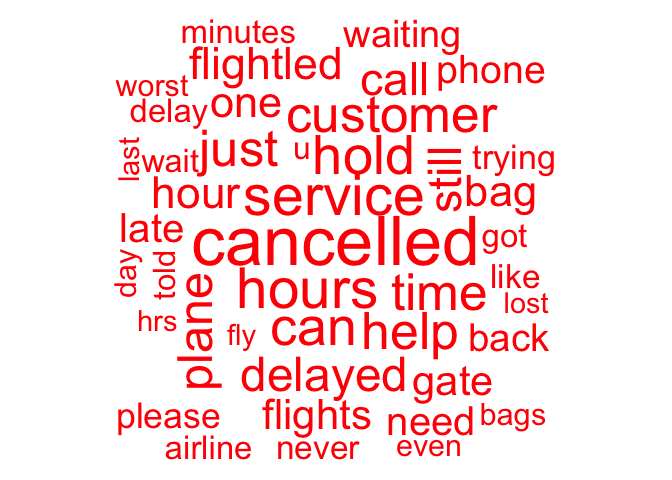
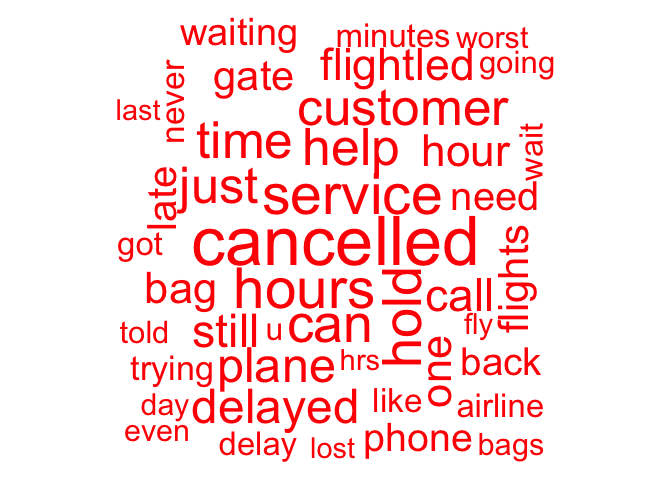
finished tweet classification report

Changed region(s): [[0.1562, 0.0312, 0.8438, 0.9688]]

diff --git a/Lasso_Logit_Tweet_Classifier/README.md b/Lasso_Logit_Tweet_Classifier/README.md
@@ -148,22 +148,8 @@ textplot_wordcloud(pos_tweets,
 ![](README_files/figure-gfm/unnamed-chunk-1-1.png)<!-- -->
 
 ``` r
-pos_tweets
-```
-
-    ## Document-feature matrix of: 2,363 documents, 2,423 features (99.77% sparse) and 3 docvars.
-    ##         features
-    ## docs     error w preferred status able reach agent via phone travel
-    ##   text5      0 0         0      0    0     0     0   0     0      0
-    ##   text8      0 0         0      0    0     0     0   0     0      0
-    ##   text17     0 0         0      0    0     0     0   0     0      0
-    ##   text18     0 0         0      0    0     0     0   0     0      0
-    ##   text19     0 0         0      0    0     0     0   0     0      0
-    ##   text26     0 0         0      0    0     0     0   0     0      0
-    ## [ reached max_ndoc ... 2,357 more documents, reached max_nfeat ... 2,413 more features ]
-
-``` r
 neg_tweets <- dfm_tweets[dfm_tweets$sentiment == "1",]
+
 textplot_wordcloud(neg_tweets,
                    min_size = 0.5,
                    max_size=6,
@@ -172,46 +158,278 @@ textplot_wordcloud(neg_tweets,
                    max_words=50)
 ```
 
-![](README_files/figure-gfm/unnamed-chunk-1-2.png)<!-- -->
-
-``` r
-neg_tweets
-```
-
-    ## Document-feature matrix of: 9,178 documents, 2,423 features (99.68% sparse) and 3 docvars.
-    ##        features
-    ## docs       error        w preferred   status     able    reach    agent
-    ##   text1 2.399486 1.729805  2.806971 2.175753 2.071017 2.399486 1.669546
-    ##   text2 0        0         0        0        0        0        0       
-    ##   text3 0        0         0        0        0        0        0       
-    ##   text4 0        0         0        0        0        0        0       
-    ##   text6 0        0         0        0        0        0        0       
-    ##   text7 0        1.729805  0        0        0        0        0       
-    ##        features
-    ## docs         via    phone   travel
-    ##   text1 2.236169 1.484752 1.863586
-    ##   text2 0        0        0       
-    ##   text3 0        0        0       
-    ##   text4 0        0        0       
-    ##   text6 0        0        0       
-    ##   text7 0        0        0       
-    ## [ reached max_ndoc ... 9,172 more documents, reached max_nfeat ... 2,413 more features ]
-
-Some words are commonly associated with a positive or negative
-sentiment. Words of gratitude like “thanks” and “appreciate”, along with
-“awesome”, “great” and “amazing” are found in many positive tweets. On
-the other hand, the language associated to delay or cancellation
-(“hours”, “cancelled”, “hold”, “delayed”, “time”) are commonly
-associated with negative tweets.
+![](README_files/figure-gfm/unnamed-chunk-1-2.png)<!-- --> Some words
+are commonly associated with a positive or negative sentiment. Words of
+gratitude like “thanks” and “appreciate”, along with “awesome”, “great”
+and “amazing” are found in many positive tweets. On the other hand, the
+language associated to delay or cancellation (“hours”, “cancelled”,
+“hold”, “delayed”, “time”) are commonly associated with negative tweets.
 
 ### Sentiment by airline
 
 While commonly used words associated with a positive sentiment are
 similar across airlines, an overview of how negative word usage differs
-across airlines can help reveal specific customer complaints. For
-example, American Airlines, Southwest, and US Airways customers seemed
-to have troubles with cancelled flights and help service. JetBlue and
-United customers mostly complain about delays. Virgin America customers
-seem to dislike the website of the company. Many negative tweets
-associated to United mention “bag”, hinting at problems of luggage
-management by the company.
+across airlines can help reveal specific customer complaints.
+
+``` r
+#most-used words for each airline (positive & negative)
+byairline_pos <- textstat_frequency(pos_tweets, 5, groups=airline, force=TRUE)
+
+ggplot(byairline_pos, 
+       aes(x=frequency,y=reorder(feature,frequency))) +
+  facet_wrap(~group, scales="free") +
+  geom_point() + 
+  labs(title = "Positive Words for Each Airline",
+       y=" ",
+       x = "Frequency")
+```
+
+![](README_files/figure-gfm/airline_sentiment-1.png)<!-- -->
+
+``` r
+byairline_neg <- textstat_frequency(neg_tweets, 5, groups=airline, force=TRUE)
+
+ggplot(byairline_neg, 
+       aes(x=frequency,y=reorder(feature,frequency))) +
+  facet_wrap(~group, scales="free") +
+  geom_point() + 
+  labs(title = "Negative Words for Each Airline",
+       y=" ",
+       x = "Frequency")
+```
+
+![](README_files/figure-gfm/airline_sentiment-2.png)<!-- --> American
+Airlines, Southwest, and US Airways customers seemed to have troubles
+with cancelled flights and help service. JetBlue and United customers
+mostly complain about delays. Virgin America customers seem to dislike
+the website of the company. Many negative tweets associated to United
+mention “bag”, hinting at problems of luggage management by the company.
+
+## Dictionary-based classifier
+
+A classic method to judge the sentiment of texts is to use a dictionary.
+For sentiment analysis, the dictionary includes language associated with
+positive and negative emotions. This list of pre-selected words can be
+used to classify tweets by analyzing the proportion of words associated
+with those emotions.
+
+The customized dictionary includes fundamental words of sentiment
+analysis. It also includes jargon specific to airlines to fit the
+context in which the dictionary is used. The selection of words is based
+on the analysis of their frequency in tweets after they were grouped by
+sentiment and TF-IDF weighted.
+
+``` r
+#create dictionary
+neg.words <- c("bad","worst", "terrible" , "cancelled","hold", "hours" ,"time", "delayed","gate", "phone") 
+pos.words <- c("thanks", "thank", "great", "love", "awesome","much", "good", "best", "appreciate", "amazing")
+
+dico <- dictionary(list(negative = neg.words, positive = pos.words))
+
+#get sentiment score
+sentiment_dico <- dfm_lookup(dfm_tweets,dictionary=dico)
+sentiment_dico <- convert(sentiment_dico,to="data.frame")
+
+cat("Most negative Tweet: ", tweets$text[which.max(sentiment_dico$negative)],
+    "\n\nMost positive Tweet: ", tweets$text[which.max(sentiment_dico$positive)])
+```
+
+    ## Most negative Tweet:  @united is the worst. Worst reservation policies. Worst costumer service. Worst worst worst. Congrats, @Delta you're not that bad! 
+    ## 
+    ## Most positive Tweet:  @SouthwestAir I love this airline so much! Thanks so much! The service is great! The snacks are amazing! Everything is outstanding thanks!!
+
+``` r
+#classify the tweets
+sentiment_dico$score <- ifelse((sentiment_dico$positive - sentiment_dico$negative)>0,0,1)
+```
+
+Let’s check the performance of the dictionary classifier!
+
+``` r
+# Create the confusion matrix
+confusion_matrix <- table(sentiment_dico$score, tweets$sentiment)
+
+# Convert the confusion matrix to a data frame
+confusion_df <- as.data.frame.matrix(confusion_matrix)
+
+confusion_df <- confusion_df %>%
+  #convert row names to a new column
+  rownames_to_column(var = "Predicted") %>%
+  #convert column names to a new row
+  pivot_longer(cols = -Predicted, names_to = "Actual", values_to = "Frequency") 
+
+# Convert factor levels to character
+confusion_df$Predicted <- as.character(confusion_df$Predicted)
+confusion_df$Actual <- as.character(confusion_df$Actual)
+
+#create heatmap
+heatmap <- ggplot(data = confusion_df, aes(x = Predicted, y = Actual, fill = Frequency, label = Frequency)) +
+  geom_tile() +
+  geom_text(size = 12, color = "white") +
+  labs(title = "Confusion Matrix", x = "Predicted", y = "Actual", fill = "Frequency") +
+  theme_minimal() +
+  scale_fill_gradient(low = "lightblue", high = "darkblue") +
+  guides(fill = "none")
+
+
+heatmap
+```
+
+![](README_files/figure-gfm/unnamed-chunk-3-1.png)<!-- -->
+
+``` r
+# Calculate the accuracy
+correct_predictions <- sum(diag(confusion_matrix))
+total_samples <- sum(confusion_matrix)
+accuracy <- correct_predictions / total_samples
+
+# Print the accuracy
+cat("Accuracy:", round(accuracy * 100, 2), "%\n")
+```
+
+    ## Accuracy: 86.21 %
+
+## Lasso logit classifier
+
+Lasso (Least Absolute Selection and Shrinkage Operator) is effective for
+feature selection by minimizing squared errors with a penalty for
+complexity. Cross-validation in a training set selected the optimal
+logit lasso model, which was then used to classify tweets in the test
+set. This classifier is based on a supervised machine- learning
+technique whereby the model ‘learns’ which words predicts the sentiment
+embedded in tweets.
+
+``` r
+#Lasso Logit Classifier --------
+
+#create matrix by binding the sentiment column from the tweets with the document-term matrix
+dfm_tweets_mod <- as.matrix(cbind(tweets$sentiment, dfm_tweets))
+
+#generate vector of random row indices for cross-validation (without replacement)
+cv.rows <- sample(nrow(dfm_tweets_mod),(nrow(dfm_tweets_mod)/2))
+cv.data <- dfm_tweets_mod[cv.rows,] #training data
+test.data <- dfm_tweets_mod[-cv.rows,] #test data
+
+#cross-validation for the lasso logit classifier 
+#performance measure is classification accuracy (type.measure="class")
+lasso.tweets <- cv.glmnet(x=cv.data[,2:ncol(dfm_tweets_mod)],y=cv.data[,1],
+                          family="binomial",type.measure="class")
+
+#classify test set
+tweets.preds <- predict(lasso.tweets,test.data[,2:ncol(dfm_tweets_mod)],type='class')
+```
+
+Using the coefficients of the lasso logit model, we can determine the
+words that most strongly predict negative or positive sentiment in the
+classifier.
+
+``` r
+#extract coefficients of the lasso logit model
+#subset coefficients by selecting only the rows where the coefficient values are not equal to zero, as the lasso regularization can set some coefficients to exactly zero.
+lasso.coeffs <- as.matrix(coef(lasso.tweets)[coef(lasso.tweets)[,1]!=0,])
+
+#subset matrix by ordering it based on the values of the coefficients
+lasso.coeffs <- as.matrix(lasso.coeffs[order(lasso.coeffs[,1],decreasing = T),])
+```
+
+Words that has the most weight on predicting negative tweets were:
+
+``` r
+lasso.coeffs[2:10,]
+```
+
+    ##    forget     hours cancelled     worst   ruining   nothing      hold   delayed 
+    ## 1.4863394 1.2009143 0.9955352 0.9265050 0.8863705 0.8340502 0.7757220 0.7746149 
+    ##       key 
+    ## 0.7464204
+
+On the other hand, words that were the most likely to be in a positive
+tweet were:
+
+``` r
+print(lasso.coeffs[(nrow(lasso.coeffs)-10):nrow(lasso.coeffs),])
+```
+
+    ## @love_dragonss        worries           best      excellent           rock 
+    ##     -0.9950645     -1.0176103     -1.0703936     -1.0820639     -1.0964683 
+    ##        awesome        amazing           love          great          thank 
+    ##     -1.1639482     -1.2187431     -1.3252037     -1.4280825     -2.3698212 
+    ##         thanks 
+    ##     -2.3991331
+
+Finally let’s check the performance of this model, and compare it to the
+dictionary.
+
+``` r
+# Create the confusion matrix
+confusion_matrix2 <- table(tweets.preds,test.data[,1])
+
+
+# Convert the confusion matrix to a data frame
+confusion_df2 <- as.data.frame.matrix(confusion_matrix2)
+
+confusion_df2 <- confusion_df2 %>%
+  #convert row names to a new column
+  rownames_to_column(var = "Predicted") %>%
+  #convert column names to a new row
+  pivot_longer(cols = -Predicted, names_to = "Actual", values_to = "Frequency") 
+
+# Convert factor levels to character
+confusion_df2$Predicted <- as.character(confusion_df2$Predicted)
+confusion_df2$Actual <- as.character(confusion_df2$Actual)
+
+#create heatmap
+heatmap2 <- ggplot(data = confusion_df2, aes(x = Predicted, y = Actual, fill = Frequency, label = Frequency)) +
+  geom_tile() +
+  geom_text(size = 12, color = "white") +
+  labs(title = "Confusion Matrix", x = "Predicted", y = "Actual", fill = "Frequency") +
+  theme_minimal() +
+  scale_fill_gradient(low = "lightblue", high = "darkblue") +
+  guides(fill = "none")
+
+
+heatmap2
+```
+
+![](README_files/figure-gfm/unnamed-chunk-9-1.png)<!-- -->
+
+``` r
+# Calculate the accuracy
+correct_predictions <- sum(diag(confusion_matrix2))
+total_samples <- sum(confusion_matrix2)
+accuracy <- correct_predictions / total_samples
+
+# Print the accuracy
+cat("Accuracy:", round(accuracy * 100, 2), "%\n")
+```
+
+    ## Accuracy: 89.86 %
+
+Both classifiers display outstanding sensitivity rates, indicating great
+efficacy at identifying tweets expressing a negative sentiment. Their
+lower specificity uncovers a weaker accuracy in identifying positive
+tweets for both classifiers. Remarkably, the classifier based on
+supervised machine-learning outperforms its dictionary-based counterpart
+with a lower error rate, and better sensitivity and specificity.
+
+The poorer quality of the dictionary-based classifier can be explained
+by multiple factors. Dictionary-based methods are limited by the
+difficulty to turn word proportions into a single measure. Also, the
+threshold at which a text is classified as positive or negative is
+unclear and subject to subjectivity. Finally, the greatest limitation of
+this method is in the dictionary itself. Context-specific dictionaries
+are laborious to build and the 20 words of the dictionary used in this
+report cannot capture accurately the sentiment of a diversity of
+customers. On the other hand, supervised learning, i.e., classification
+with a regularized logit model is better equipped to handle vast size of
+text data and is more reliable, thanks to its optimal feature selection.
+In fact, this technique based on machine-learning can be thought of as
+an improvement of the dictionary method, where the computer would first
+‘learn’ the dictionary.
+
+## Conclusion
+
+Despite its limitations, including the large cost and subjectivity of
+the necessary pre-labelling of many tweets to supervise the model, using
+the classifier based on the lasso logit method should be favoured by the
+company to classify future tweets.
